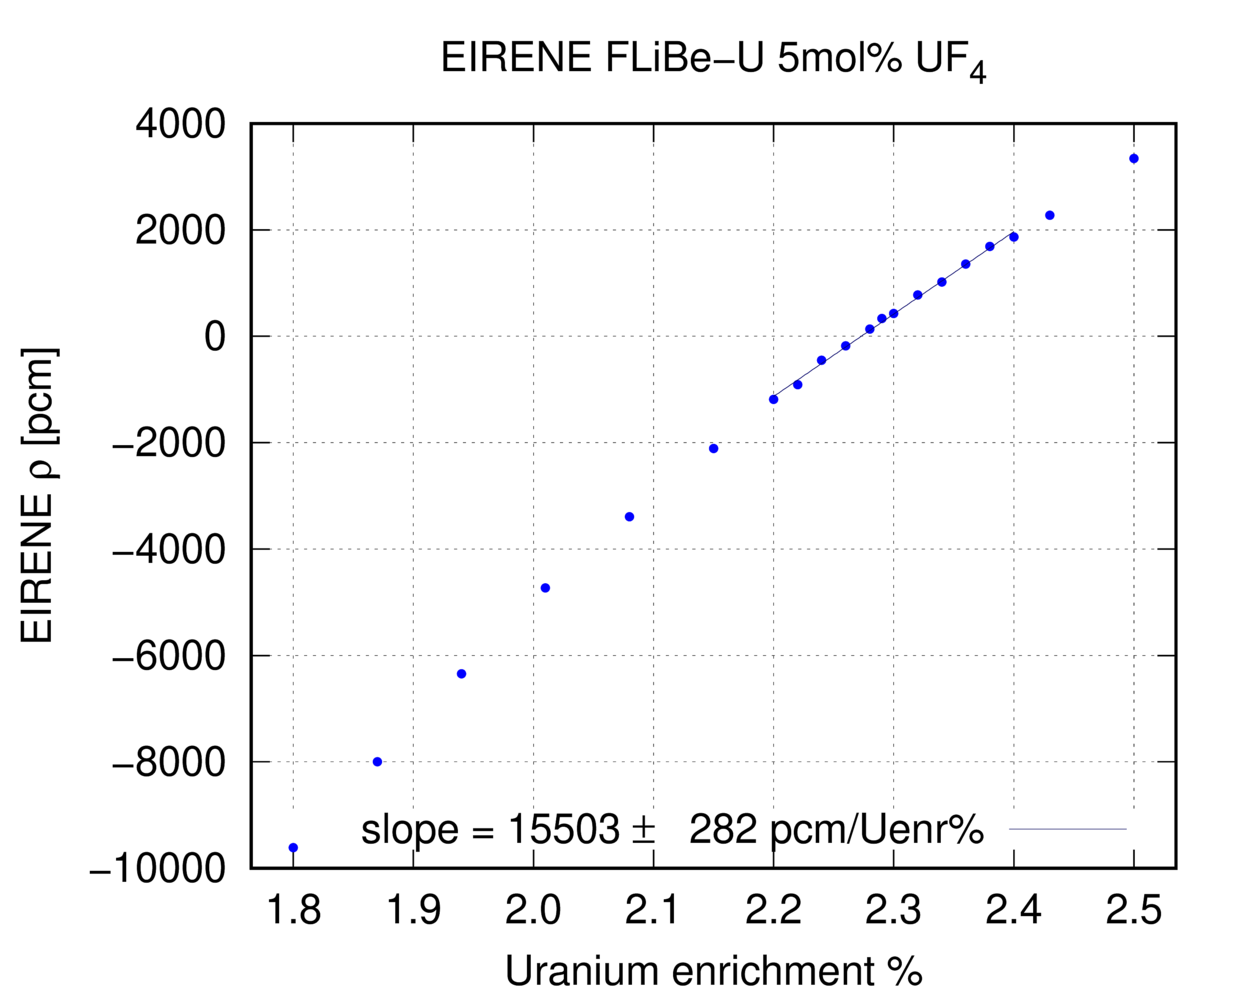
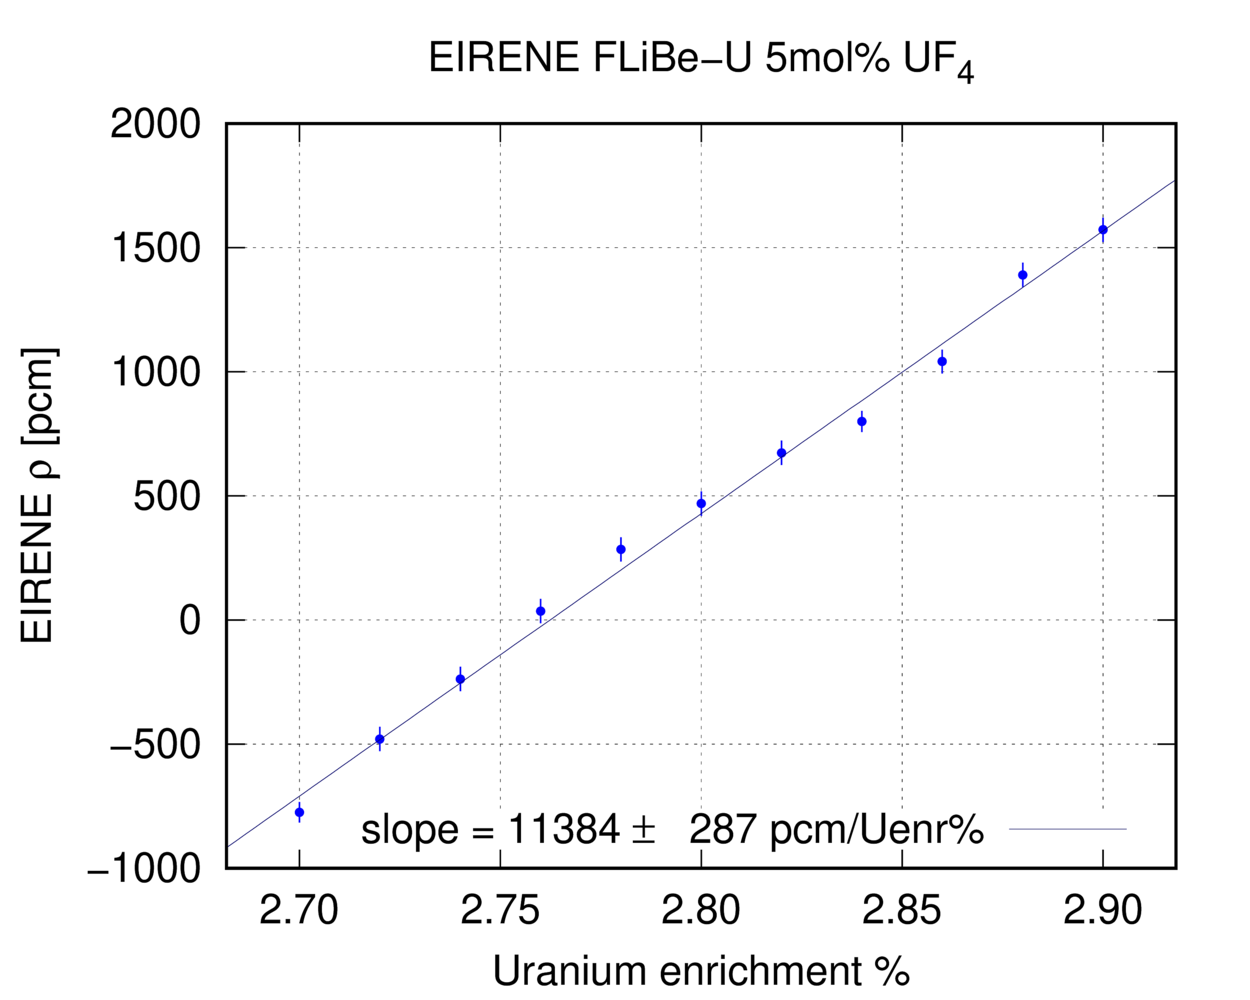
Graphite density changed to 1.74 g/cc

diff --git a/SCALE_IMSR_Model/utilities/EIRENE-FTC.py b/SCALE_IMSR_Model/utilities/EIRENE-FTC.py
@@ -36,7 +36,7 @@ def saltmix(mU:float=5) -> str:
 #
 
 UF4molpct = 5.0     # UF4 mol % in FLiBe-U
-Uenrpct   = 2.29    # Uranium enrichment %
+Uenrpct   = 2.78    # Uranium enrichment %
 Uenrichment = Uenrpct / 100.0
 
 for salt_tempC in np.linspace(600, 700, 11):
@@ -79,14 +79,14 @@ wtptHastelloy 2 8.89 5
         64157 55.7
         64152 2.3 end
 ' Graphite
-   graphite 4 den=2.300000 1.0 923.15 end
+   graphite 4 den=1.84 1.0 923.15 end
 ' Stainless Steel SS316
    ss316 5 den=8.030000 1.0 923.15 end
 
 end comp
 
 read parameters
- npg=10000 nsk=50 gen=10050 sig=50e-5
+ npg=10000 nsk=50 gen=10050 sig=20e-5
  htm=no
  fdn=no
  pms=no

diff --git a/SCALE_IMSR_Model/utilities/EIRENE-enr.py b/SCALE_IMSR_Model/utilities/EIRENE-enr.py
@@ -37,7 +37,8 @@ def saltmix(mU:float=5) -> str:
 
 UF4molpct = 5.0     # UF4 mol % in FLiBe-U
 
-for enrpct in np.linspace(2.2, 2.4, 11): # np.linspace(1.8, 2.5, 11):
+for enrpct in np.linspace(2.7, 2.9, 11):
+#np.linspace(2.2, 2.4, 11):
     enrpath = f'enr_{enrpct:5.03f}'
     if not os.path.isdir(enrpath):
         os.mkdir(enrpath)
@@ -77,7 +78,7 @@ wtptHastelloy 2 8.89 5
         64157 55.7
         64152 2.3 end
 ' Graphite
-   graphite 4 den=2.300000 1.0 923.15 end
+   graphite 4 den=1.84 1.0 923.15 end
 ' Stainless Steel SS316
    ss316 5 den=8.030000 1.0 923.15 end
 

diff --git a/SCALE_IMSR_Model/utilities/EIRENE-ITC.py b/SCALE_IMSR_Model/utilities/EIRENE-ITC.py
@@ -37,7 +37,7 @@ def saltmix(mU:float=5) -> str:
 #
 
 UF4molpct = 5.0     # UF4 mol % in FLiBe-U
-Uenrpct   = 2.29    # Uranium enrichment %
+Uenrpct   = 2.78    # Uranium enrichment %
 Uenrichment = Uenrpct / 100.0
 
 for core_tempC in np.linspace(600, 700, 11):
@@ -80,7 +80,7 @@ wtptHastelloy 2 8.89 5
         64157 55.7
         64152 2.3 end
 ' Graphite
-   graphite 4 den=2.300000 1.0 {T} end
+   graphite 4 den=1.84 1.0 {T} end
 ' Stainless Steel SS316
    ss316 5 den=8.030000 1.0 {T} end
 
